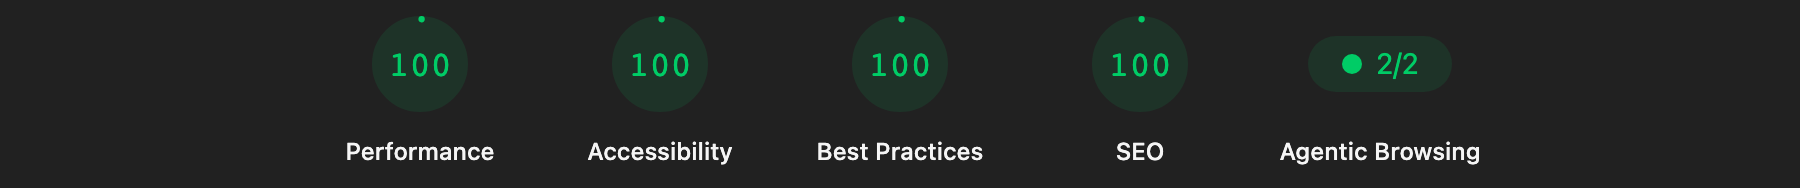
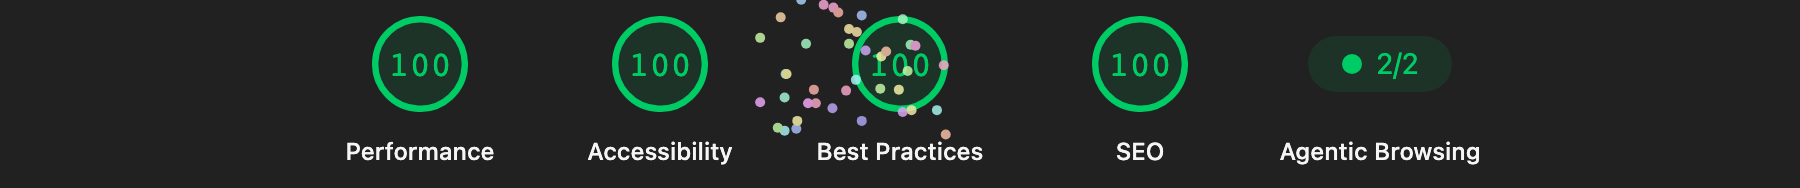
docs: add live site, deployment notes and live Lighthouse results

diff --git a/README.md b/README.md
@@ -4,11 +4,23 @@ A single responsive landing page for **luma.**, a fictional learning platform, b
 [Buzzvel FE Test 2026 Figma design](https://www.figma.com/design/G0zSf6gyynwzEusOCgm2CM/Buzzvel-FE---Test-2026)
 with **Next.js 16 (App Router), TypeScript and Tailwind CSS 4**.
 
+**Live site: <https://buzzvel-assessment.vercel.app>** (deployed from `main` on Vercel, see
+[Deployment](#deployment)).
+
 | Lighthouse — mobile                                         | Lighthouse — desktop                                           |
 | ----------------------------------------------------------- | -------------------------------------------------------------- |
-| ![Mobile: 95 / 100 / 100 / 100](docs/lighthouse/mobile.png) | ![Desktop: 100 / 100 / 100 / 100](docs/lighthouse/desktop.png) |
+| ![Mobile: 98 / 100 / 100 / 100](docs/lighthouse/mobile.png) | ![Desktop: 100 / 100 / 100 / 100](docs/lighthouse/desktop.png) |
 
-Production build, default Lighthouse settings (mobile: simulated Moto G Power on slow 4G), 3 runs each.
+Audited on the live site with default Lighthouse settings (mobile: simulated Moto G Power on slow
+4G), 3 runs per preset; the representative run is shown.
+
+| Live site (3 runs) | Performance | Accessibility | Best practices | SEO | LCP          | TBT      | CLS |
+| ------------------ | ----------- | ------------- | -------------- | --- | ------------ | -------- | --- |
+| Mobile             | 98–100      | 100           | 100            | 100 | 1.8 – 2.3 s  | 27–39 ms | 0   |
+| Desktop            | 100         | 100           | 100            | 100 | 0.44 – 0.5 s | 0 ms     | 0   |
+
+The same budgets also run in CI against a local production build (mobile 95, desktop 100), where
+there is no CDN or Brotli compression.
 
 ---
 
@@ -27,11 +39,12 @@ Production build, default Lighthouse settings (mobile: simulated Moto G Power on
 Host ports can be changed with `DEV_PORT`, `PROD_PORT` and `STORYBOOK_PORT`
 (for example `DEV_PORT=3001 docker compose up dev`).
 
-`SITE_URL` (default `http://localhost:3000`) is read **at build time** and used for the canonical
-URL, `og:url`, the Open Graph image, `robots.txt` and the sitemap. Set it when building for a real
-domain: `SITE_URL=https://luma.example.com pnpm build` locally, or
+`SITE_URL` is read **at build time** and used for the canonical URL, `og:url`, the Open Graph
+image, `robots.txt` and the sitemap. Set it when building for a real domain:
+`SITE_URL=https://luma.example.com pnpm build` locally, or
 `SITE_URL=https://luma.example.com docker compose up --build prod` with Docker (compose passes it to
-the image as a build arg and defaults to `http://localhost:8080`, where `prod` is published).
+the image as a build arg and defaults to `http://localhost:8080`, where `prod` is published). On
+Vercel it is not needed (see [Deployment](#deployment)).
 
 - **dev** bind-mounts the source with polling enabled, so edits on macOS/Windows reload instantly.
 - **prod** is a multi-stage build using `output: "standalone"`. The final image runs as a non-root user,
@@ -66,7 +79,7 @@ pnpm build && pnpm start   # production server (standalone output)
 
 | Layer       | Tool                                     | Count                      | What it proves                                                                                                                                                                                                   |
 | ----------- | ---------------------------------------- | -------------------------- | ---------------------------------------------------------------------------------------------------------------------------------------------------------------------------------------------------------------- |
-| Unit        | Vitest + Testing Library                 | 73                         | Content rules, primitives, mobile menu (Esc, focus trap, scroll lock), form validation and states, failed-request recovery, schema edge cases, Server Action                                                     |
+| Unit        | Vitest + Testing Library                 | 75                         | Content rules, primitives, mobile menu (Esc, focus trap, scroll lock), form validation and states, failed-request recovery, schema edge cases, Server Action                                                     |
 | Components  | Storybook 10 + addon-vitest + addon-a11y | 51 stories                 | Every component and section renders at mobile/tablet/desktop with **zero axe violations**. Play functions cover the menu and form                                                                                |
 | End-to-end  | Playwright + @axe-core/playwright        | 112 (17 skipped by design) | Every anchor click, mobile menu by touch and keyboard, form with and without JavaScript, hover/focus, reduced motion, no horizontal scroll at 320–1440px (incl. 1024–1200), no console errors or failed requests |
 | Performance | Lighthouse CI                            | 6 runs                     | Every category ≥ 95 on mobile and desktop, CLS ≤ 0.1                                                                                                                                                             |
@@ -82,7 +95,36 @@ Storybook build), the Playwright suite, the Lighthouse budgets, and a build of t
 image that must report healthy and serve the page. Lighthouse runs on shared GitHub runners, so its
 scores can be a few points noisier than on a local machine.
 
+[`.github/workflows/live.yml`](.github/workflows/live.yml) runs the same e2e suite and Lighthouse
+budgets **against the deployed site** after every successful production deploy (see below), and can
+also be started by hand from the Actions tab, optionally against a preview URL.
+
 ---
+
+## Deployment
+
+The site is hosted on **Vercel** at <https://buzzvel-assessment.vercel.app>, through Vercel's GitHub
+integration:
+
+- **`main` is production.** Every merge to `main` builds and deploys automatically; other branches
+  get preview deployments (Vercel's default). The repository needs no Vercel config file: Vercel detects Next.js and
+  runs `pnpm install` and `next build` (pnpm version from `packageManager`, Node 22 from `engines`).
+- **The contact form works there as it does locally.** The Server Action runs as a Vercel Function,
+  and the no-JavaScript form post works too (covered by the e2e suite against the live URL).
+- **Static by default.** The page is prerendered at build time and served from Vercel's CDN
+  (`x-nextjs-prerender: 1`, cache `HIT`), so a visit doesn't run any server code until the form is
+  submitted.
+- **Canonical URLs.** When `SITE_URL` isn't set, the build uses Vercel's
+  `VERCEL_PROJECT_PRODUCTION_URL`, so canonical, Open Graph, `robots.txt` and the sitemap point at
+  the production domain, including on preview deployments (which keeps search engines on
+  production). The order is `SITE_URL` → Vercel production domain → `http://localhost:3000`.
+- **Checked after every deploy.** Vercel reports each deployment to GitHub as a commit status. When
+  a deployment of `main` succeeds, `live.yml` checks out that exact commit and runs the Playwright
+  suite (mobile, tablet, desktop, with and without JavaScript) and the Lighthouse budgets against the
+  public URL. Run by hand at delivery time: 112 e2e passed (17 skipped by design) and every
+  Lighthouse category ≥ 98.
+- **Self-hosting** is covered by the Docker `prod` image (standalone, non-root, with a healthcheck),
+  which CI builds and starts on every pull request.
 
 ## Key decisions
 
@@ -155,8 +197,9 @@ scores can be a few points noisier than on a local machine.
   configured, but on my machine the Docker VM ran out of disk space (`ENOSPC`) while installing
   dependencies. The scores above come from the same production build run on the host. The Docker
   **e2e** service did run successfully.
-- Mobile performance is **95**, right at the target. The remaining cost is the Next.js/React
-  runtime under simulated slow-4G throttling. Desktop scores 100.
+- On a local production build (no CDN), mobile performance is **95**, right at the target; the
+  remaining cost is the Next.js/React runtime under simulated slow-4G throttling. The live site
+  scores 98–100.
 - Placeholder `#` links and the Lorem ipsum text listed above.
 - The contact form does not deliver messages (no backend, as allowed by the brief).
 - Not tested on real Safari/iOS hardware yet. Automated runs use Chromium with mobile emulation.
@@ -203,13 +246,15 @@ src/
   app/            layout (fonts, metadata, skip link), page, Server Action, robots, sitemap, OG image
   components/
     ui/           Button, ButtonLink, Chip, Eyebrow, SectionHeading, AvatarStack, Container, icons
-    layout/       Header, MobileNav (client), Footer, Logo
+    layout/       Header, MobileNav (client), SmoothScroll (client), Footer, Logo
     contact/      ContactForm (client), ContactFormBoundary, FormField
     sections/     Hero, Categories, FeaturedCourse, HowItWorks, Testimonial, People, Contact, FinalCta
   content/        typed copy and image metadata
-  lib/            contact schema/state, fonts, site URL
+  lib/            contact schema/state, fonts, site URL (SITE_URL / Vercel / localhost)
 tests/
   unit/           Vitest
   e2e/            Playwright
-.github/workflows/ci.yml   CI pipeline
+.github/workflows/
+  ci.yml          checks on every pull request and on main
+  live.yml        e2e + Lighthouse against the deployed site
 ```
